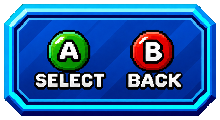
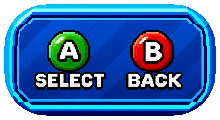
-

diff --git a/sorgenti/include/expanded_title_ui_01065.h b/sorgenti/include/expanded_title_ui_01065.h
@@ -1,4 +1,4 @@
-/* SWOS Expanded 0.10.65: Title labels use the APPROVED NEW CAREER bitmap atlas.
+/* SWOS Expanded 0.10.66: Title labels use the APPROVED NEW CAREER bitmap atlas.
  * Included only by expanded_title_overlay.c. No separate build objects and no
  * modifications to the historical approved Title source PNGs. */
 #ifndef EXPANDED_TITLE_UI_01065_H
@@ -77,61 +77,101 @@ static void Expanded_TitleUI65_Destroy(void)
     if(s_exp_title_legend)SDL_DestroyTexture(s_exp_title_legend);
     s_exp_title_legend=NULL;
 }
-static int Expanded_TitleUI65_DrawButtonText(SDL_Renderer *r,const char *text,
-                                               SDL_FRect button,int primary,
-                                               int continue_active,int selected,float sx,float sy)
+/* Allow real pixel-art glyph outlines to breathe. Raw atlas advances can be
+ * smaller than the visible dark-outline width: this was causing overlapping
+ * text, especially CLASSIC MODES. Shared in measurement AND placement. */
+static unsigned Expanded_TitleUI65_Code(unsigned code)
 {
-    ExpandedTitleUIFont *f=&s_exp_title_fonts[primary && !continue_active?1:0];
+    if(code>='a' && code<='z')code=code-'a'+'A';
+    return code>=32 && code<=126 ? code : '?';
+}
+static float Expanded_TitleUI65_Step(const ExpandedTitleUIFont *f,
+                                     unsigned a,unsigned b)
+{
+    const ExpandedTitleUIGlyph *g=&f->glyph[a];
+    const ExpandedTitleUIGlyph *h=&f->glyph[b];
+    float step=(float)g->advance;
+    if(g->src.w>0 && h->src.w>0) {
+        /* +2 atlas pixels between neighboring opaque glyph rectangles. */
+        float noTouch=(float)(g->bx+g->src.w-h->bx+2);
+        if(step<noTouch)step=noTouch;
+    }
+    return step;
+}
+static int Expanded_TitleUI65_DrawLine(SDL_Renderer *r,const char *text,
+                                        ExpandedTitleUIFont *f,SDL_FRect box,
+                                        float baseScale,int selected,
+                                        float sx,float sy,int classic)
+{
     if(!text || !f->texture || !f->glyph['A'].advance)return 0;
     float pen=0.f;
     int minY=INT_MAX,maxY=INT_MIN;
     for(const unsigned char *p=(const unsigned char *)text;*p;p++){
-        unsigned ch=*p;
-        if(ch>='a'&&ch<='z')ch=ch-'a'+'A';
-        if(ch<32||ch>126)ch='?';
+        unsigned ch=Expanded_TitleUI65_Code(*p);
         ExpandedTitleUIGlyph *g=&f->glyph[ch];
         if(g->src.w>0 && g->src.h>0){
             if(g->by<minY)minY=g->by;
             if(g->by+g->src.h>maxY)maxY=g->by+g->src.h;
         }
-        pen+=(float)g->advance;
+        pen+=p[1]?Expanded_TitleUI65_Step(f,ch,Expanded_TitleUI65_Code(p[1])):
+                  (float)g->advance;
     }
-    if(minY==INT_MAX || pen<=0.f)return 0;
-    /* The focused Title label turns YELLOW, exactly as on the Career form.
-     * Keep this a runtime tint of the approved pixel atlas: no baked label
-     * or highlight in the PNG button. Reset modulation after every draw. */
-    const float screen=(sx<sy?sx:sy);
-    float scale=(primary && !continue_active?1.0f:continue_active?0.96f:0.86f)*screen;
-    float maxWidth=button.w-(primary?36.f:24.f)*sx;
-    float maxHeight=button.h*(primary?0.52f:0.61f);
-    if(maxWidth<=0 || maxHeight<=0)return 0;
-    SDL_SetTextureColorMod(f->texture,255,selected?226:255,selected?72:255);
+    if(minY==INT_MAX || pen<=0.f || maxY<=minY)return 0;
+    float scale=baseScale*(sx<sy?sx:sy);
+    float maxWidth=box.w-24.f*sx;
+    if(classic)maxWidth*=0.955f; /* requested slightly narrower CLASSIC MODES */
+    const float maxHeight=box.h*0.90f;
+    if(maxWidth<=0.f || maxHeight<=0.f)return 0;
     if(pen*scale>maxWidth)scale=maxWidth/pen;
     if((maxY-minY)*scale>maxHeight)scale=maxHeight/(float)(maxY-minY);
-    float atX=button.x+(button.w-pen*scale)*0.5f;
-    const float originY=button.y+(button.h-(maxY-minY)*scale)*0.5f-minY*scale;
+    const float beginX=box.x+(box.w-pen*scale)*0.5f;
+    const float originY=box.y+(box.h-(maxY-minY)*scale)*0.5f-minY*scale;
+    float atX=beginX;
+    SDL_SetTextureColorMod(f->texture,255,selected?226:255,selected?72:255);
     for(const unsigned char *p=(const unsigned char *)text;*p;p++){
-        unsigned ch=*p;
-        if(ch>='a'&&ch<='z')ch=ch-'a'+'A';
-        if(ch<32||ch>126)ch='?';
+        unsigned ch=Expanded_TitleUI65_Code(*p);
         ExpandedTitleUIGlyph *g=&f->glyph[ch];
-        if(g->src.w>0&&g->src.h>0){
+        if(g->src.w>0 && g->src.h>0){
             SDL_FRect dst={atX+g->bx*scale,originY+g->by*scale,
                            g->src.w*scale,g->src.h*scale};
             dst.x=(float)((int)(dst.x+0.5f));
             dst.y=(float)((int)(dst.y+0.5f));
             SDL_RenderCopyF(r,f->texture,&g->src,&dst);
         }
-        atX+=g->advance*scale;
+        atX+=(p[1]?Expanded_TitleUI65_Step(f,ch,Expanded_TitleUI65_Code(p[1])):
+                    (float)g->advance)*scale;
     }
     SDL_SetTextureColorMod(f->texture,255,255,255);
     return 1;
 }
+static int Expanded_TitleUI65_DrawButtonText(SDL_Renderer *r,const char *text,
+                                               SDL_FRect button,int primary,
+                                               int continue_active,int selected,
+                                               float sx,float sy)
+{
+    /* CONTINUE CAREER uses two independently measured and centered lines.
+     * This preserves the approved Title button art and green recolouring. */
+    if(continue_active){
+        ExpandedTitleUIFont *f=&s_exp_title_fonts[0];
+        SDL_FRect top={button.x,button.y+button.h*0.195f,
+                       button.w,button.h*0.35f};
+        SDL_FRect bottom={button.x,button.y+button.h*0.455f,
+                          button.w,button.h*0.35f};
+        if(!Expanded_TitleUI65_DrawLine(r,"CONTINUE",f,top,1.0f,
+                                          selected,sx,sy,0))return 0;
+        return Expanded_TitleUI65_DrawLine(r,"CAREER",f,bottom,1.0f,
+                                            selected,sx,sy,0);
+    }
+    ExpandedTitleUIFont *f=&s_exp_title_fonts[primary?1:0];
+    return Expanded_TitleUI65_DrawLine(r,text,f,button,primary?1.0f:0.86f,
+                    selected,sx,sy,strcmp(text,"CLASSIC MODES")==0);
+}
 static void Expanded_TitleUI65_DrawLegend(SDL_Renderer *r,float sx,float sy)
 {
     if(!s_exp_title_legend)return;
-    /* Same bottom-right margin and height as NEW CAREER's A/B legend. */
-    const SDL_FRect dest={1530.f*sx,837.f*sy,122.f*sx,87.f*sy};
+    /* 10% larger, keep the 12px right margin. The bottom is exactly at
+     * y=871, the lower edge of the Title's EXIT GAME button hitbox. */
+    const SDL_FRect dest={1518.f*sx,775.f*sy,134.f*sx,96.f*sy};
     SDL_RenderCopyF(r,s_exp_title_legend,NULL,&dest);
 }
 #endif

diff --git a/sorgenti/src/expanded_new_career.c b/sorgenti/src/expanded_new_career.c
@@ -1,5 +1,5 @@
 /* NEW CAREER HD. Presentation/setup state only; career/save engine unchanged.
- * 0.10.65: columns aligned -2px, NEW CAREER glyph baseline unified, COACH spacing, A/B legend; audio off. */
+ * 0.10.66: only C of NEW CAREER +1px; rounded approved A/B legend 10% larger aligned with panel bottom; audio off. */
 #ifdef SWOS_SDL_BUILD
 #include "expanded_new_career.h"
 #include "expanded_png.h"
@@ -208,7 +208,7 @@ static void load(SDL_Renderer*r){
  s_legend_ab=texture(r,"assets/ui/legends/a_select_b_back.png",0);
  #undef TEX
  load_font(r,0,"form");load_font(r,1,"button");load_font(r,2,"title");
- fprintf(stderr,"[new-career] 0.10.65: aligned field texts, NEW CAREER baseline, COACH spacing, bottom-right A/B legend; audio disabled\n");
+ fprintf(stderr,"[new-career] 0.10.66: C optical baseline +1px, approved rounded legend 110pct aligned to frame; audio disabled\n");
 }
 void Expanded_NewCareer_Destroy(void){
  SDL_DestroyTexture(s_bg);SDL_DestroyTexture(s_panel);s_bg=s_panel=NULL;
@@ -332,7 +332,10 @@ static void pixel_text_tint_fit(SDL_Renderer*r,const char*s,int type,float x,flo
    if(type==0 && strcmp(s,"AGE (18-70)")==0 && (ch=='(' || ch==')')){
     dst.x-=2.f*sx;dst.y-=2.f*sy;
    }
-   /* All NEW CAREER letters now share exactly the same glyph baseline. */
+   /* Optical correction requested after the baseline was unified: only the
+    * C in NEW CAREER moves down one logical canvas pixel. */
+   if(type==2 && ch=='C' && strcmp(s,"NEW CAREER")==0)
+    dst.y+=1.f*sy;
    dst.x=(float)((int)(dst.x+.5f));dst.y=(float)((int)(dst.y+.5f));
    SDL_RenderCopyF(r,f->texture,&g->rect,&dst);
   }
@@ -422,7 +425,9 @@ void Expanded_NewCareer_Draw(SDL_Renderer*r,float w,float h){
  }
  /* Stable right/bottom margin, with one fixed legend sprite. */
  if(s_legend_ab){
-  SDL_FRect d={1492.f*sx,837.f*sy,160.f*sx,87.f*sy};
+  /* 10% larger than 0.10.65, same 12px right margin.
+   * Legend bottom aligns to the lower edge of the main Career frame. */
+  SDL_FRect d={1476.f*sx,775.f*sy,176.f*sx,96.f*sy};
   SDL_RenderCopyF(r,s_legend_ab,NULL,&d);
  }
 }

diff --git a/sorgenti/include/build_info.h b/sorgenti/include/build_info.h
@@ -14,7 +14,7 @@
 #define BUILD_INFO_H
 
 /* Single source of truth for the user-facing release/build number. */
-#define SWOS_EXPANDED_VERSION "0.10.65"
+#define SWOS_EXPANDED_VERSION "0.10.66"
 
 /* "401ff14", or "401ff14-dirty" when tracked source differed from that commit
  * -- meaning the binary is NOT that commit. Lowercase, as git prints it. */
